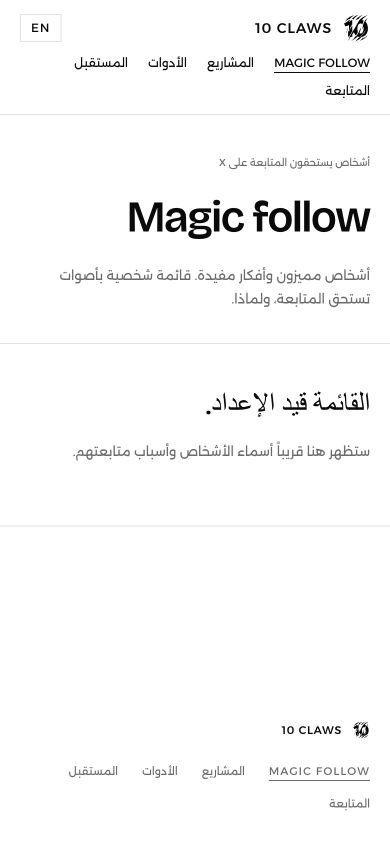
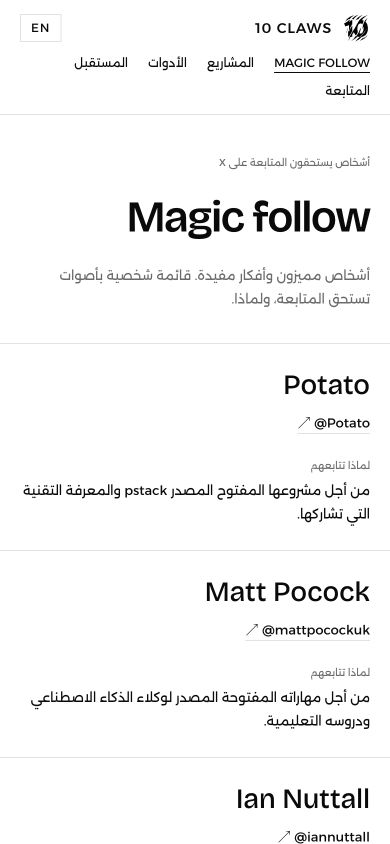
feat: add curated Magic follow recommendations

diff --git a/lib/magic-follow/content.ts b/lib/magic-follow/content.ts
@@ -7,7 +7,88 @@ export type MagicFollowPerson = {
 };
 
 // Curated by the site owner. Handles omit @; publish only approved entries.
-export const magicFollowPeople: MagicFollowPerson[] = [];
+export const magicFollowPeople: MagicFollowPerson[] = [
+  {
+    name: "Potato",
+    handle: "Potato",
+    why: {
+      en: "For her open-source pstack and the technical knowledge she shares.",
+      ar: "من أجل مشروعها المفتوح المصدر pstack والمعرفة التقنية التي تشاركها.",
+    },
+  },
+  {
+    name: "Matt Pocock",
+    handle: "mattpocockuk",
+    why: {
+      en: "For his open-source agent skills and tutorials.",
+      ar: "من أجل مهاراته المفتوحة المصدر لوكلاء الذكاء الاصطناعي ودروسه التعليمية.",
+    },
+  },
+  {
+    name: "Ian Nuttall",
+    handle: "iannuttall",
+    why: {
+      en: "Great technical and SEO tips.",
+      ar: "نصائح ممتازة في التقنية وتحسين الظهور في محركات البحث.",
+    },
+  },
+  {
+    name: "Kun Chen",
+    handle: "kunchenguid",
+    why: {
+      en: "Great agent setups. Check out his no-mistakes and Firstmate projects.",
+      ar: "إعدادات ممتازة لوكلاء الذكاء الاصطناعي. ألقِ نظرة على مشروعيه no-mistakes وFirstmate.",
+    },
+  },
+  {
+    name: "Mario Zechner",
+    handle: "badlogicgames",
+    why: {
+      en: "Creator of Pi. That is enough. Just listen to him. Straight to the point, and I still struggle to get his sense of humor :P",
+      ar: "صانع Pi. وهذا يكفي. فقط استمع إليه. يدخل في الموضوع مباشرة، وما زلت أعاني لفهم حسّه الفكاهي :P",
+    },
+  },
+  {
+    name: "Ahmad Osman",
+    handle: "TheAhmadOsman",
+    why: {
+      en: "A must-follow to learn about the world of open models. أجدع ناس",
+      ar: "لازم تتابعه لتتعرف على عالم النماذج المفتوحة. أجدع ناس",
+    },
+  },
+  {
+    name: "Steve Sewell",
+    handle: "Steve8708",
+    why: {
+      en: "Building the excellent open-source Agent-Native project. His videos are a must-watch. No crap.",
+      ar: "يبني مشروع Agent-Native المفتوح المصدر والمميز. فيديوهاته تستحق المشاهدة. بلا كلام فارغ.",
+    },
+  },
+  {
+    name: "Dan McAteer",
+    handle: "daniel_mac8",
+    why: {
+      en: "Great tips on model optimization.",
+      ar: "نصائح ممتازة لتحسين أداء النماذج.",
+    },
+  },
+  {
+    name: "Trevin Chow",
+    handle: "trevin",
+    why: {
+      en: "For his open-source Compound Engineering work and tips on models.",
+      ar: "من أجل عمله المفتوح المصدر في Compound Engineering ونصائحه حول النماذج.",
+    },
+  },
+  {
+    name: "Kieran Klaassen",
+    handle: "kieranklaassen",
+    why: {
+      en: "The Compound Engineering co-pilot.",
+      ar: "رفيق الرحلة في Compound Engineering.",
+    },
+  },
+];
 
 export const magicFollowContent = {
   en: {

diff --git a/docs/magic-follow-qa.md b/docs/magic-follow-qa.md
@@ -1,10 +1,14 @@
 # Magic follow
 
-Replaces the About Us page with a curated X directory: name, linked handle, and a reason to follow each person. English and Arabic content lives in `lib/magic-follow/content.ts`. The list is intentionally empty until the owner supplies accounts; the public page shows a localized empty state.
+Replaces the About Us page with a curated X directory: name, linked handle, and a reason to follow each person. English and Arabic content lives in `lib/magic-follow/content.ts`. The ten owner-supplied accounts appear in the supplied order, with lightly edited English reasons and Arabic translations preserving the personal tone.
 
 The former About content and FormSubmit enquiry form are removed. Homepage and shared public navigation now link to Magic follow. Both localized About URLs redirect permanently (308), and the sitemap lists the new routes.
 
-Validation: lint, TypeScript, and production builds pass. Redirect status and destinations checked for both languages; sitemap checked for the replacement URLs. English desktop and Arabic mobile layouts checked for navigation, column labels, empty state, and horizontal overflow. Profile rows cannot be verified against real people until the list is supplied.
+Validation: lint, TypeScript, and production builds pass. Redirect status and destinations checked for both languages; sitemap checked for the replacement URLs. The original empty state was verified before the owner supplied the list.
+
+The populated production page was checked on 30 September 2026: all ten rows and exact supplied X handles are present in order. English desktop and Arabic mobile (390px) render without horizontal overflow; screenshots below show the populated directory.
+
+Names were checked against public profiles and personal sites, including [Matt Pocock](https://github.com/mattpocock), [Ian Nuttall](https://ian.is/), [Kun Chen](https://github.com/kunchenguid), [Mario Zechner](https://huggingface.co/badlogicgames), [Ahmad Osman](https://theahmadosman.world/), [Steve Sewell](https://github.com/steve8708), [Dan McAteer](https://x.com/daniel_mac8/status/2015424424863003135), [Trevin Chow](https://trev.in/), and [Kieran Klaassen](https://github.com/kieranklaassen). Potato retains the supplied public alias; direct X profile fetches were unavailable. Reasons are the owner's recommendations.
 
 ![Magic follow desktop](screenshots/magic-follow-desktop.png)
 
